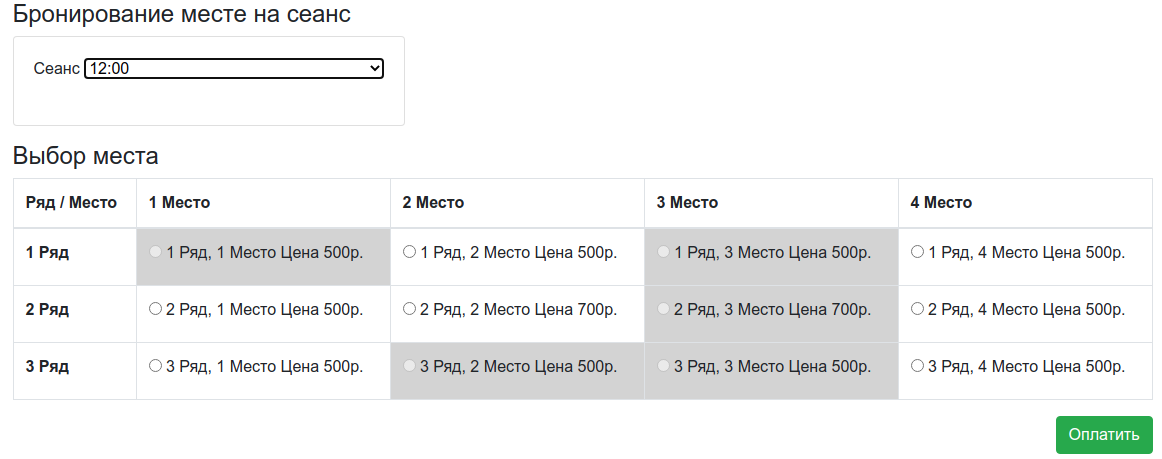
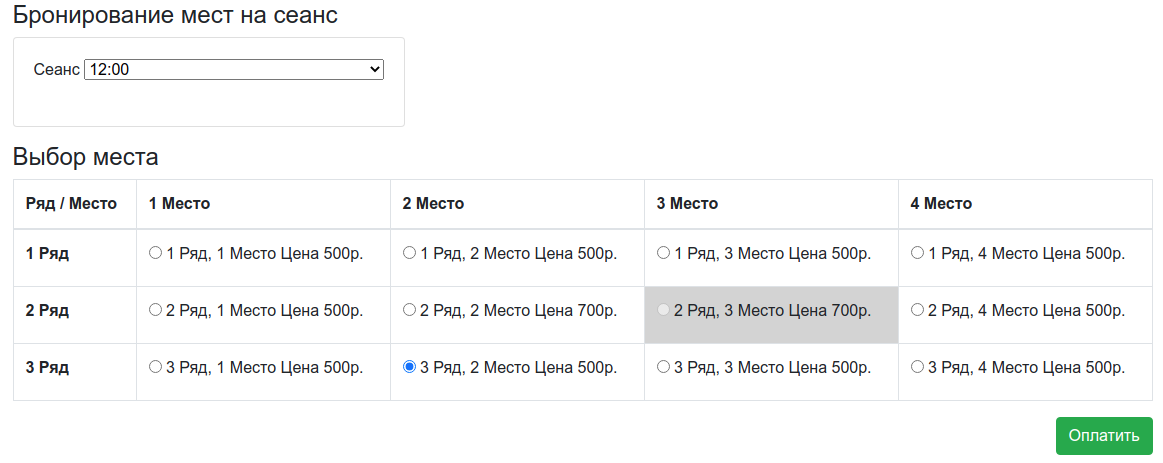
README

diff --git a/src/main/webapp/index.html b/src/main/webapp/index.html
@@ -150,7 +150,7 @@
 <div class="container">
     <div class="row pt-2">
         <h4>
-            Бронирование месте на сеанс
+            Бронирование мест на сеанс
         </h4>
     </div>
     <div class="row">
